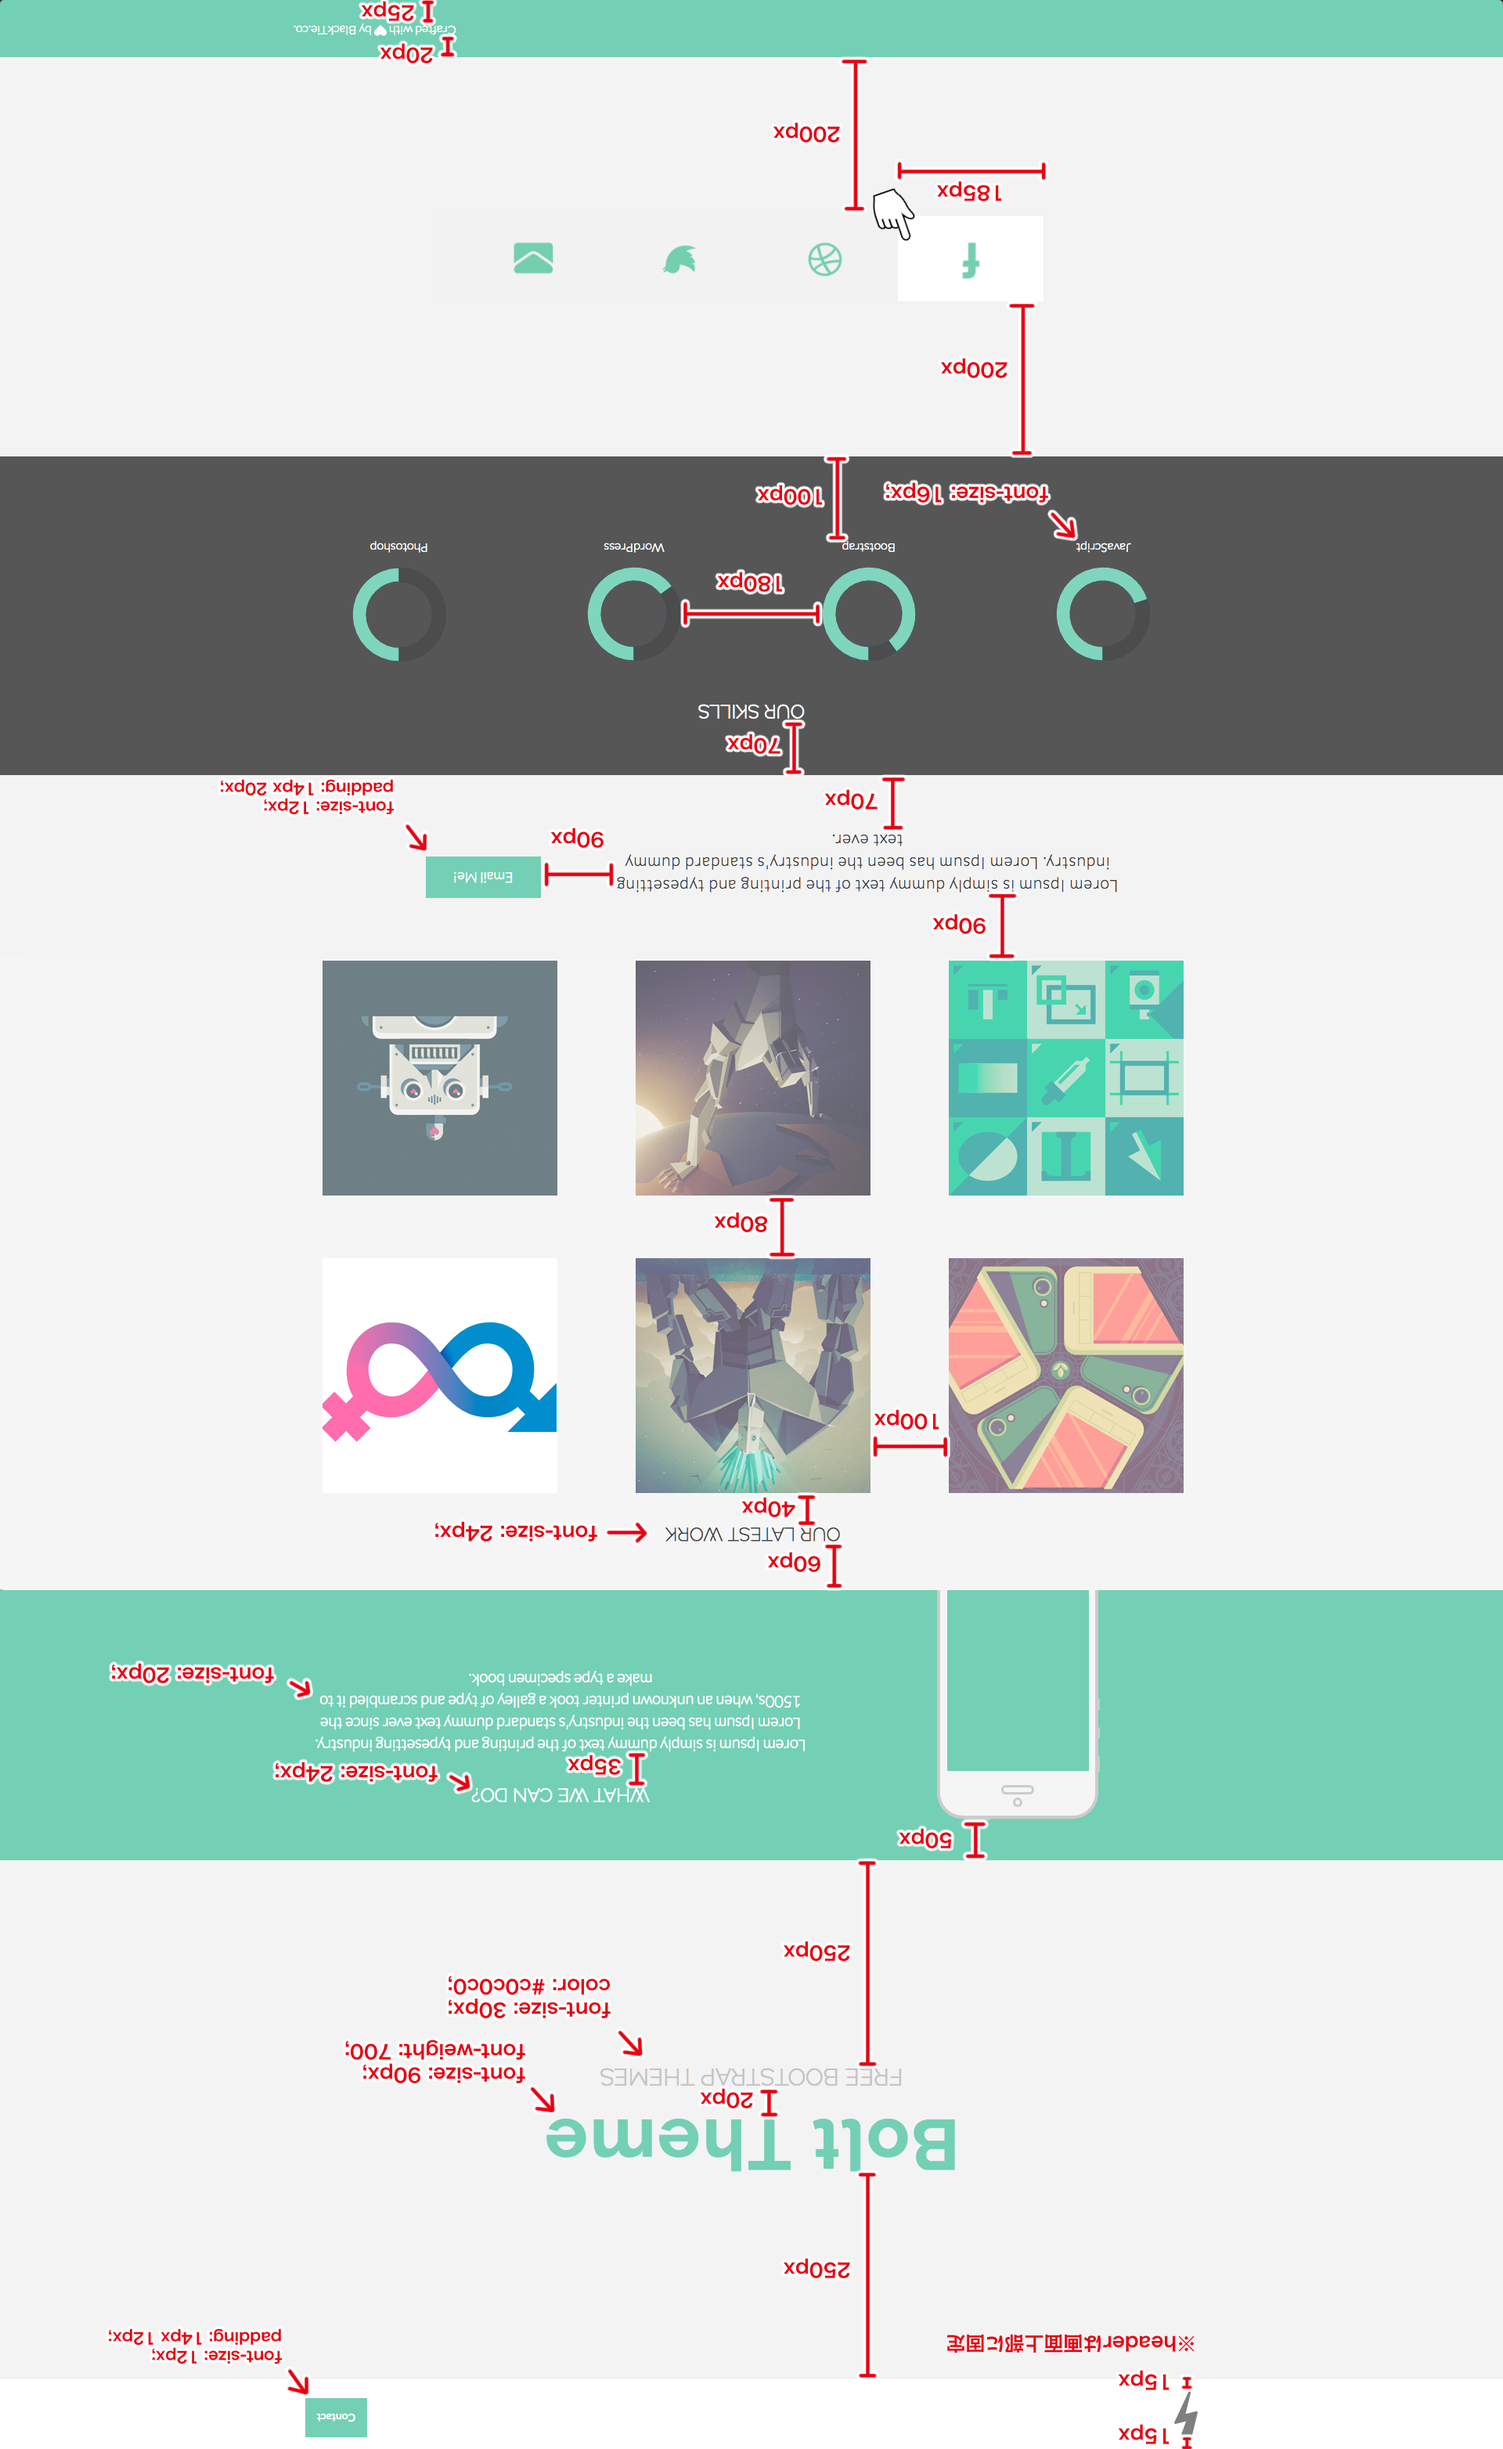
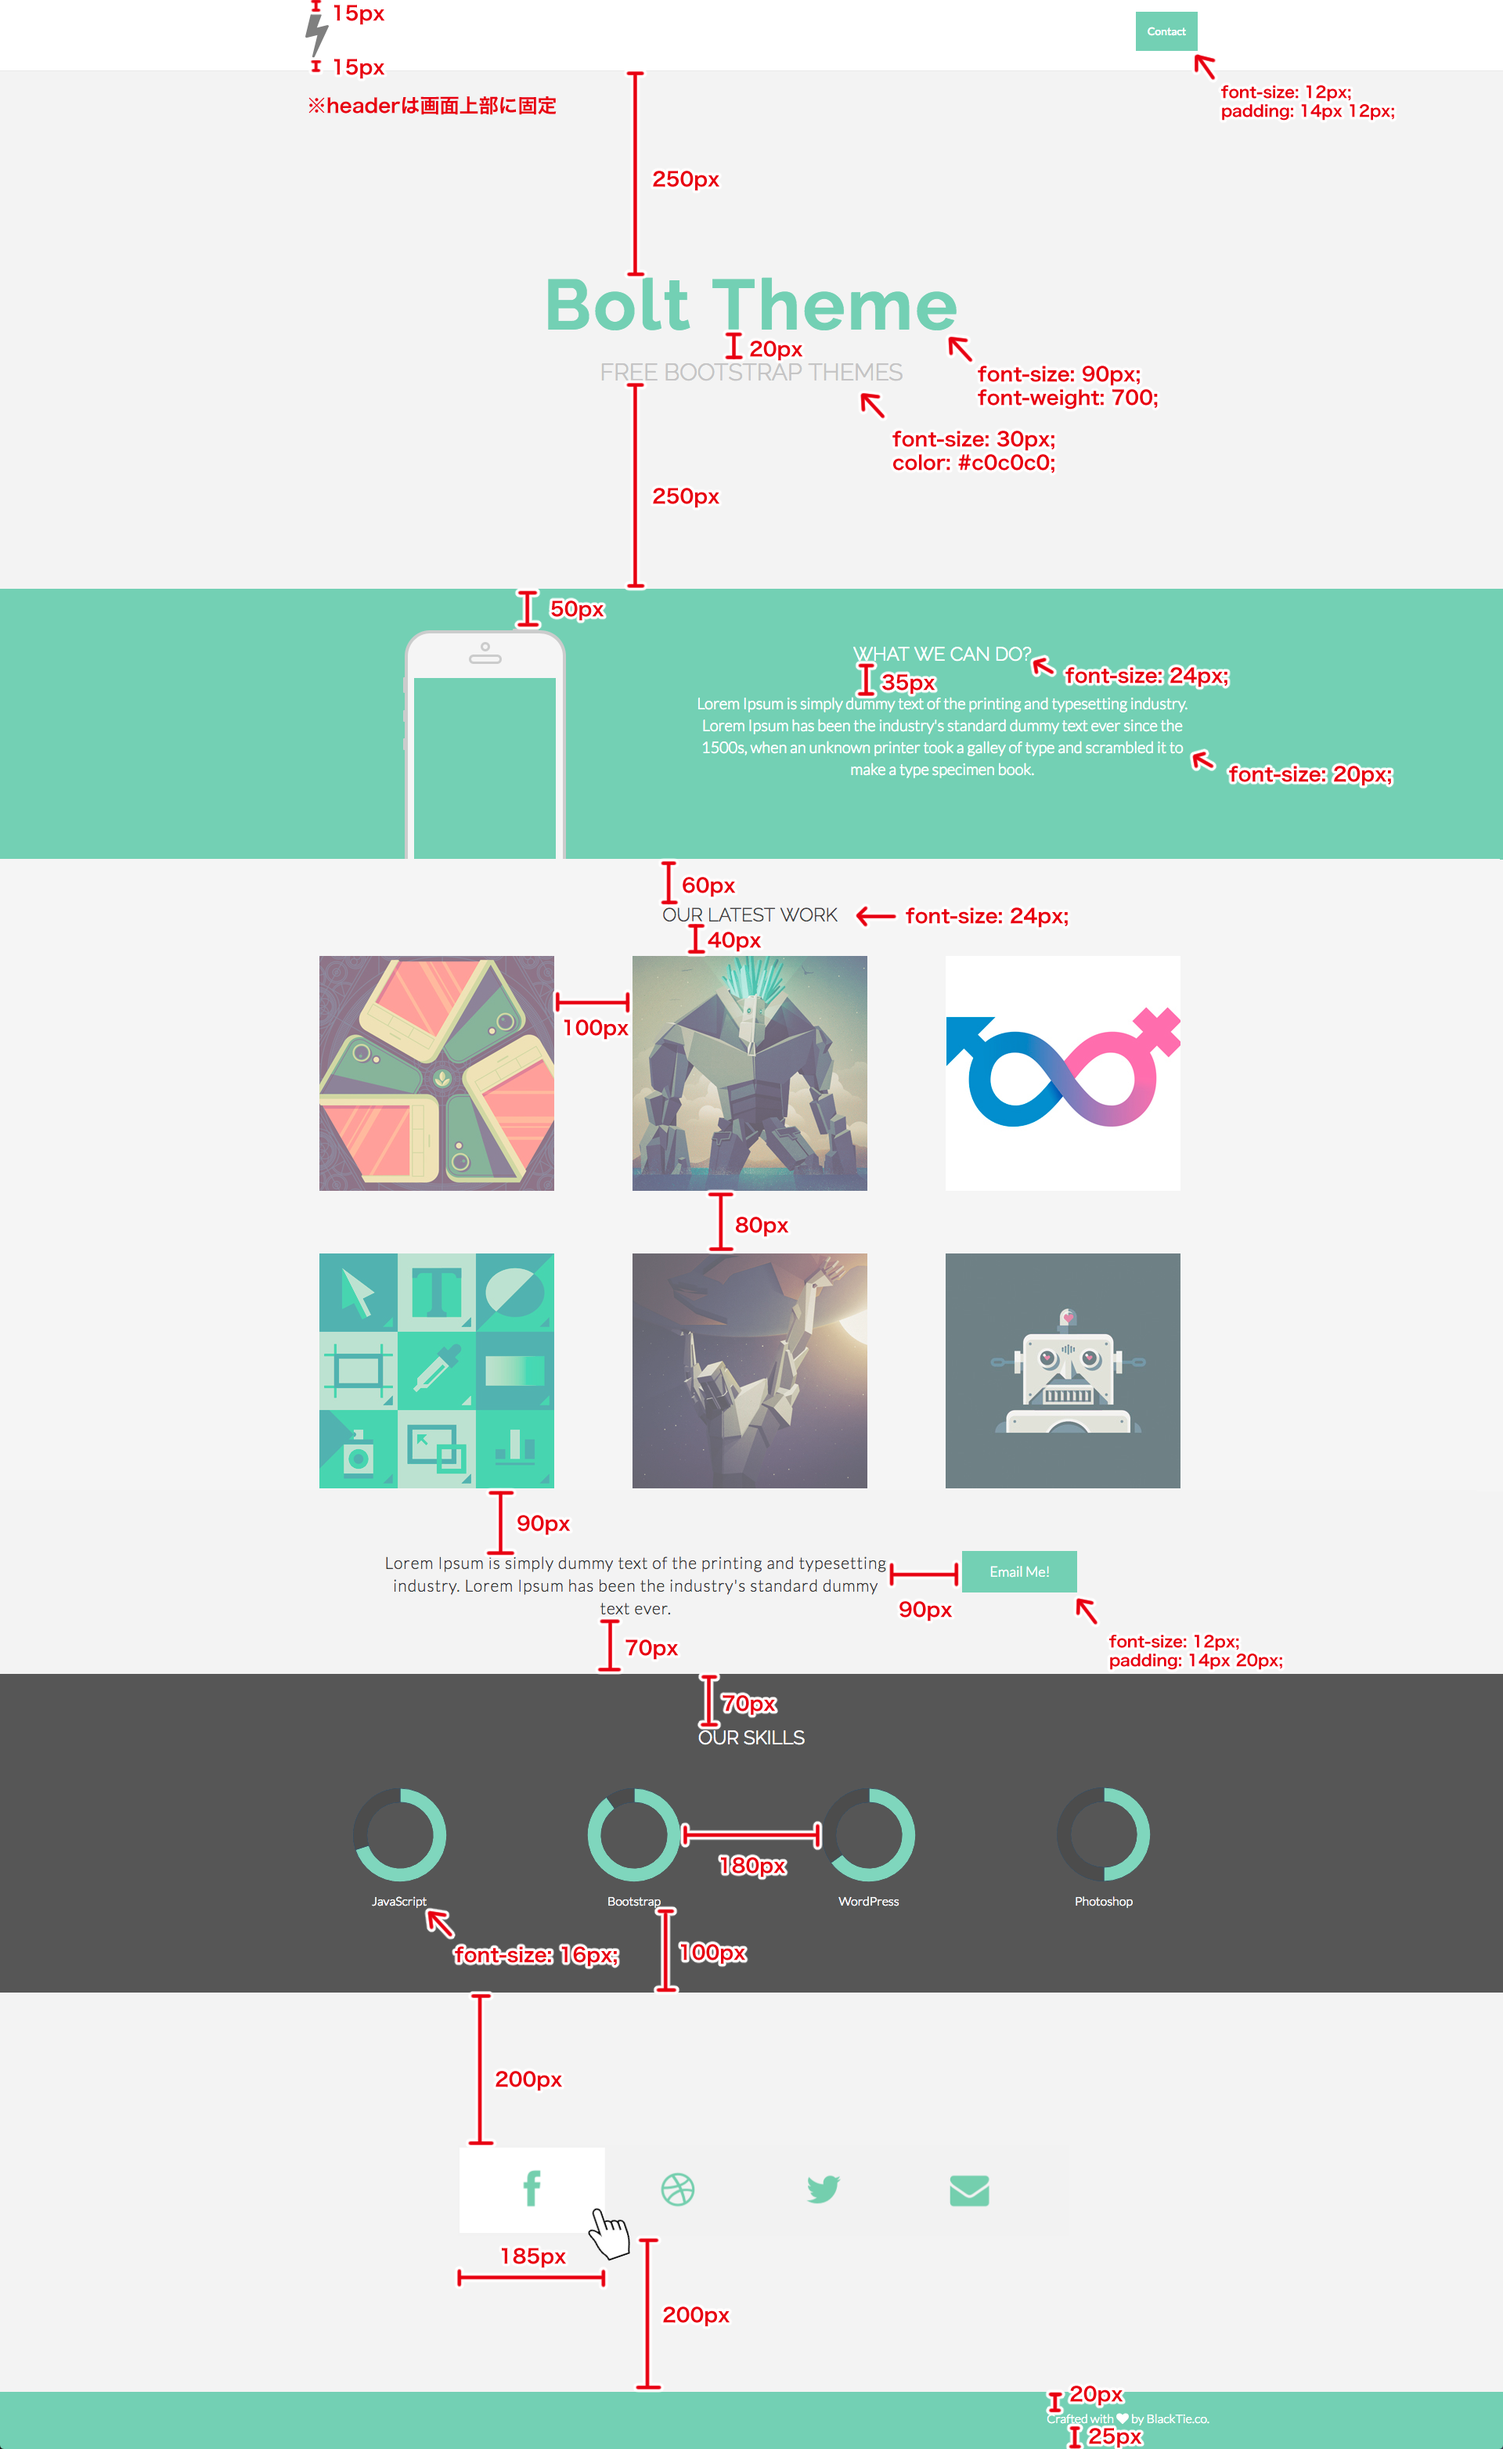
bolt-pc確認

diff --git a/index.html b/index.html
@@ -17,7 +17,7 @@
     <header class="header">
       <div class="header-inner inner">
         <div class="icon">
-          <i class="fas fa-bolt fa-2x"></i>
+          <a href="#" class="bolt-icon"><i class="fas fa-bolt fa-2x"></i></a>
         </div>
         <div>
          <a href="#" class="btn">Contact</a>
@@ -26,17 +26,17 @@
     </header><!--      headerここまで       -->
     <main class="main">
       <div class="main-inner inner">
-        <div class="is-title">Bolt Theme</div>
-        <div class="sub-title">FREE BOOTSTRAP 3 THEME</div>
+        <div class="main-title">Bolt Theme</div>
+        <div class="sub-title">FREE BOOTSTRAP THEME</div>
       </div>
       <section class="section">
-        <div class="section-inner">
+        <div class="section-inner inner">
           <div class="img-iphone">
             <img src="img/iphone.png" alt="iphone">
           </div>
-          <div class="text-wrap">
-            <h1 class="texe-title">WHAT WE CAN DO?</h1>
-            <p class="text-inner">
+          <div class="what-wrap">
+            <h1 class="what-title">WHAT WE CAN DO?</h1>
+            <p class="is-text">
               Lorem Ipsum is simply dummy text of the printing and typesetting industry.
               Lorem Ipsum has been the industry's standard dummy text ever since the 1500s, 
               when an unknown printer took a galley of type and scrambled it to make a type specimen book.
@@ -44,17 +44,62 @@
           </div>
         </div>
       </section>
-      <article>
-        <h2>OUR LATEST WORK</h2>
-        <p class="text-inner">
-          Lorem Ipsum is simply dummy text of the printing and typesetting industry.
-          Lorem Ipsum has been the industry's standard dummy text ever.
-        </p>
+      <article class="article">
+        <div class="article-inner inner">
+          <div>
+            <h2 class="our-title">OUR LATEST WORK</h2>
+          </div>
+          <div class="img-wrap clearfix">
+            <img class="is-img" src="img/01.jpg" alt="img01">
+            <img class="is-img"src="img/02.jpg" alt="img02">
+            <img class="is-img"src="img/03.jpg" alt="img03">
+            <img class="is-img"src="img/04.jpg" alt="img04">
+            <img class="is-img"src="img/05.jpg" alt="img05">
+            <img class="is-img"src="img/06.jpg" alt="img06">
+          </div>
+          <div class="our-wrap">
+            <p class="our-text">
+              Lorem Ipsum is simply dummy text of the printing and typesetting industry.
+              Lorem Ipsum has been the industry's standard dummy text ever.
+            </p>
+            <a class="btn mail-btn" href="#" class="mail">EmailMe!</a>
+          </div>
       </article>
-      <section></section>
-      <nav></nav>
+      <section class="fig">
+        <div class="fig-inner inner">
+          <h3 class="fig-title">OUR SKILLS</h3>
+          <div class="fig-box">
+            <img src="img/circle_01.png" alt="circle01">
+            <p class="text">JavaScript</p>
+          </div>
+          <div class="fig-box">
+            <img src="img/circle_02.png" alt="circle02">
+            <p class="text">Bootstrap</p>
+          </div>
+          <div class="fig-box">
+            <img src="img/circle_03.png" alt="circle03">
+            <p class="text">WordPress</p>
+          </div>
+          <div class="fig-box">
+            <img src="img/circle_04.png" alt="circle04">
+            <p class="text">Photoshop</p>
+          </div>
+        </div>
+      </section>
+      <nav class="nav">
+        <ul class="nav-icon inner clearfix">
+          <li><a href="#" class="li-icon"><i class="fab fa-facebook-f fa-3x"></i></a></li>
+          <li><a href="#" class="li-icon"><i class="fab fa-dribbble fa-3x"></i></a></li>
+          <li><a href="#" class="li-icon"><i class="fab fa-twitter fa-3x"></i></a></li>
+          <li><a href="#" class="li-icon"><i class="fas fa-envelope fa-3x"></i></a></li>
+        </ul>
+      </nav>
     </main><!--      mainここまで       -->
-    <footer></footer><!--      footerここまで       -->
+    <footer class="footer">
+      <div class="footer-inner inner">
+        <p class="foot-text">Crafted with <i class="fas fa-heart"></i> by BlackTie.co.</p>
+      </div>
+    </footer><!--      footerここまで       -->
 
   </body>
 </html>

diff --git a/css/style.css b/css/style.css
@@ -5,26 +5,39 @@ body {
   background-color: #f2f2f2;
 }
 
+.inner {
+  width: 1100px;
+  margin: 0 auto;
+}
+
+.clearfix::after {
+  content: "";
+  display: block;
+  clear: both;
+}
+
 /* ========================================
     header
 ========================================= */
 .header {
   background-color: #fff;
   position: fixed;
+  top: 0;
   width: 100%;
+  z-index: 10;
 }
 
 .header-inner {
-  padding: 15px;
+  padding: 15px; 
   display: flex;
-  justify-content: space-evenly;
+  justify-content: space-between;
 }
 
-.icon {
+.bolt-icon {
   color: #4e4e4e;
 }
 
-a.btn{
+.btn{
   font-size: 12px;
   padding: 14px 12px;
   color: #fff;
@@ -32,6 +45,12 @@ a.btn{
   text-decoration: none;
   display: inline-block;
 }
+ /*       hover         */
+.btn:hover {
+  transition: all 0.3s;
+  color: #333;
+}
+ /*       hover         */
 
 /* ========================================
     main
@@ -40,10 +59,9 @@ a.btn{
 .main-inner {
   padding: 320px 0 250px 0;
   text-align: center;
-  padding-top: 50px; 
 }
 
-.is-title {
+.main-title {
   font-size: 90px;
   font-weight: 700;
   color: #74cfae;
@@ -60,25 +78,151 @@ a.btn{
 ========================================= */
 .section {
   background-color: #74cfae;
+  width: 100%;
 }
 
 .section-inner {
   display: flex;
-  justify-content: center;
-  width: 900px;
-  margin: 0 auto;
+  padding-top: 50px;
+  text-align: center;
 }
 
-.text-title {
-  font-size: 24px;
-  padding-bottom: 30px;
-}
-.text-wrap {
+.what-wrap {
   color: #fff;
-
+  margin-left: 230px;
+  line-height: 30px;
 }
-.text-title {
+
+.what-title {
+  font-family: Raleway;
   font-size: 24px;
+  padding-bottom: 35px;
 }
 
+.is-text {
+  font-size: 20px;
+}
 
+/* ========================================
+   article
+========================================= */
+
+.our-title {
+  font-family: Raleway;
+  font-weight: lighter;
+  font-size: 24px;
+  padding: 60px 0 40px 0;
+  text-align: center;
+}
+
+.is-img {
+  display: block;
+  float: left;
+  margin-right: 100px;
+  margin-bottom: 80px;
+  opacity: 0.7;
+  z-index: 1;
+  transition: all 0.2s;
+}
+ /*       hover         */
+.is-img:hover {
+  transition: all 0.3s;
+  opacity: 1;
+}
+ /*       hover         */
+.is-img:nth-child(3n) {
+  margin-right: 0;
+}
+
+.our-wrap {
+  display: table;
+  width: 900px;
+
+}
+.our-text {
+  box-sizing: border-box;
+  padding: 10px 90px 70px 0;
+  display: table-cell;
+  font-size: 20px;
+  font-weight: lighter;
+  line-height: 30px;
+  text-align: center;
+  padding-left: 150px;
+}
+
+.mail-btn {
+  padding: 14px 20px;
+}
+
+/* ========================================
+   section-fig
+========================================= */
+.fig {
+  background-color: #4e4e4e;
+  width: 100%;
+  color: #fff;
+}
+
+.fig-title {
+  font-family: Raleway;
+  font-weight: lighter;
+  font-size: 24px;
+  text-align: center;
+  padding: 70px 0;
+}
+
+.fig-box {
+  display: inline-block;
+  text-align: center;
+  margin-right: 200px;
+}
+
+.fig-box:last-child {
+  margin-right: 0;
+}
+
+.text {
+  font-size: 16px;
+  margin: 20px 0 100px 0;
+}
+
+/* ========================================
+   nav
+========================================= */
+.nav {
+  padding: 200px 0;
+}
+
+.nav-icon {
+  text-align: center;
+  width: 740px;
+}
+
+.li-icon {
+  float: left;
+  width: 185px;
+  text-align: center;
+  color: #74cfae;
+  padding: 30px 0;
+  transition: all 0.2s;
+}
+ /*       hover         */
+ .li-icon:hover {
+  transition: all 0.3s;
+  background-color: #fff;
+}
+ /*       hover         */
+
+
+/* ========================================
+   footer
+========================================= */
+.footer {
+  padding: 20px 0 25px 0;
+  background-color: #74cfae;
+  color: #fff;
+}
+
+.foot-text {
+  text-align: center;
+}
